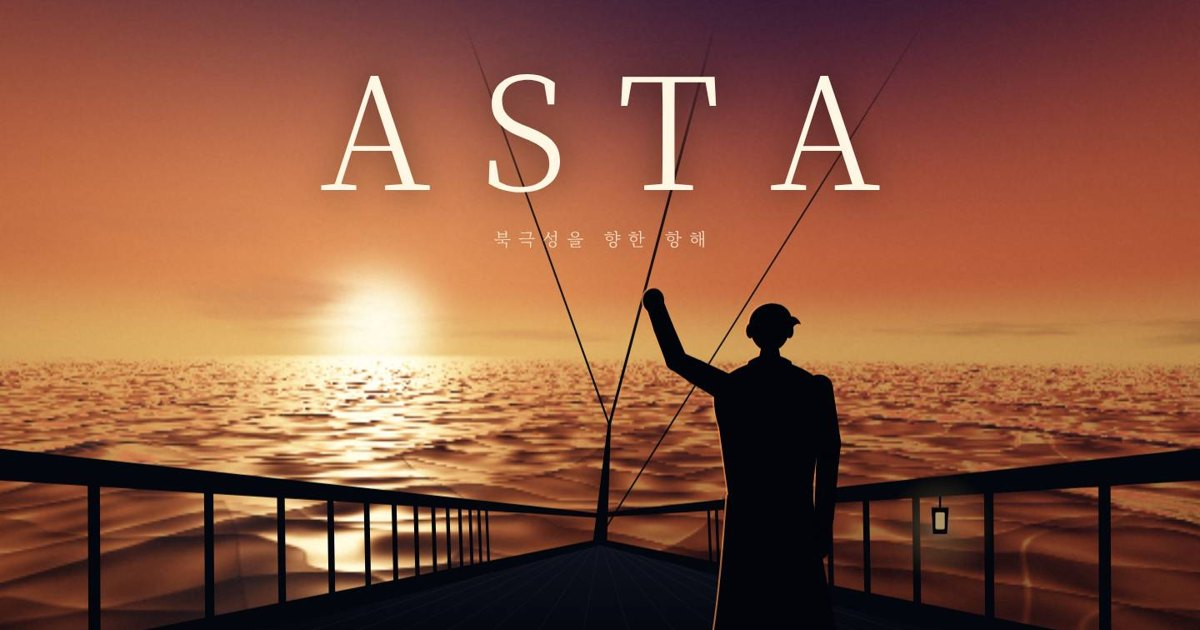
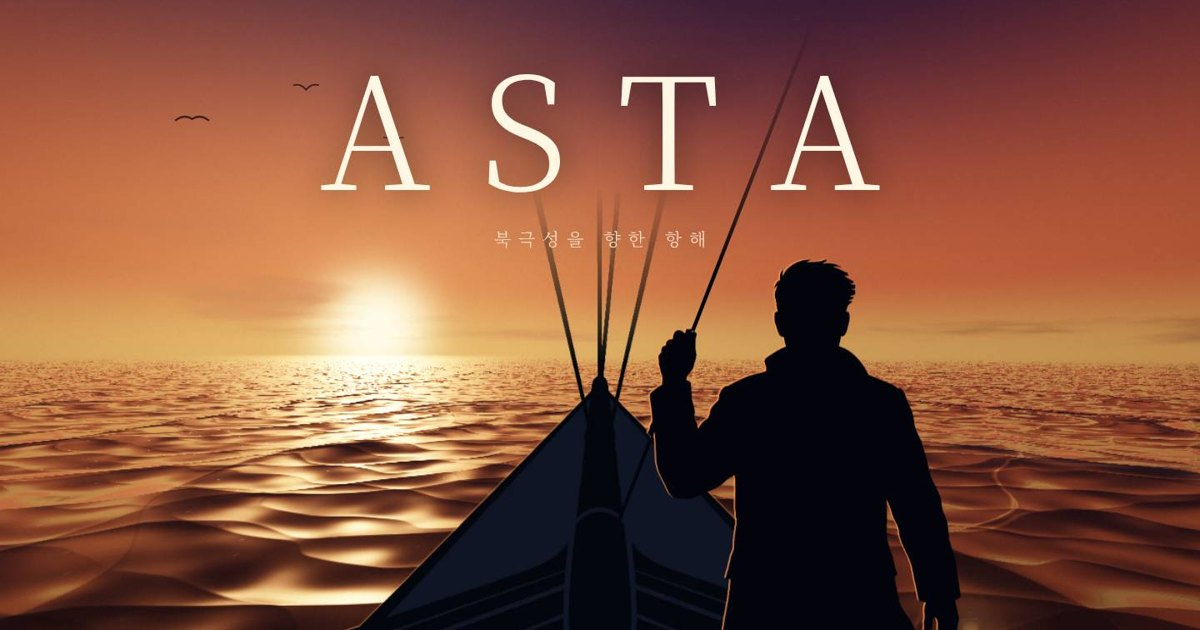
Guide tone copy, realistic sailor and ship bow silhouettes

diff --git a/index.html b/index.html
@@ -4,7 +4,7 @@
 <meta charset="utf-8">
 <meta name="viewport" content="width=device-width, initial-scale=1, viewport-fit=cover">
 <title>ASTA | 북극성을 향한 항해</title>
-<meta name="description" content="어둠이 찾아오고 거센 파도가 몰아쳐도, 고개를 들면 북극성이 있다. ASTA 앱·유튜브·블로그·인스타그램.">
+<meta name="description" content="어둠이 찾아와도, 언제나 같은 자리의 북극성처럼. 당신의 길잡이 ASTA — 앱·유튜브·블로그·인스타그램.">
 <meta name="google-site-verification" content="xA-quvQDqnkmBwEHX85nidtWgxqf7gIbeMHc6KZyVVI">
 <meta name="naver-site-verification" content="d984ef35352b2194cdda1baebc0857c64e810aae">
 <link rel="canonical" href="https://asta-story.github.io/">
@@ -13,7 +13,7 @@
 <meta property="og:type" content="website">
 <meta property="og:site_name" content="ASTA">
 <meta property="og:title" content="ASTA | 북극성을 향한 항해">
-<meta property="og:description" content="어둠이 찾아오면, 고개를 들어 북극성을. 흔들림 없이, 앞으로.">
+<meta property="og:description" content="어둠이 찾아와도, 당신의 길잡이가 되어드립니다.">
 <meta property="og:url" content="https://asta-story.github.io/">
 <meta property="og:image" content="https://asta-story.github.io/img/og.jpg">
 <meta property="og:locale" content="ko_KR">
@@ -43,12 +43,15 @@ a{color:inherit;text-decoration:none}
 #sea{position:fixed;inset:0;width:100vw;height:100lvh;display:block;z-index:0;background:
   radial-gradient(120% 70% at 30% 62%,#ff9a4a 0%,#b8452f 28%,#2a1424 58%,#03060d 100%)}
 #fx{position:fixed;inset:0;width:100vw;height:100lvh;z-index:2;pointer-events:none}
-.fg{position:fixed;left:0;right:0;bottom:-2lvh;height:104lvh;z-index:1;pointer-events:none;will-change:transform,opacity}
-.fg svg{display:block;width:100%;height:100%;overflow:visible}
-#sailor,#hem,#head,#torso,#lantern{transform-box:fill-box}
-#torso{transform-origin:50% 100%}
-#lantern{transform-origin:50% 0}
-#hem{transform-origin:50% 0}
+.fg{position:fixed;left:0;top:0;width:100vw;height:100lvh;z-index:1;pointer-events:none;will-change:transform,opacity;overflow:hidden}
+.fgstage{position:absolute;left:0;top:0;will-change:transform;-webkit-mask-image:linear-gradient(to bottom,transparent 0,transparent 14%,#000 31%);mask-image:linear-gradient(to bottom,transparent 0,transparent 14%,#000 31%)}
+#bowImg{position:absolute;inset:0;width:100%;height:100%;display:block}
+#rope{position:absolute;inset:0;width:100%;height:100%;overflow:visible}
+#sailorImg{position:absolute;left:0;top:0;display:block;transform-origin:50% 100%;will-change:transform,filter}
+.lamp{position:absolute;width:1.1%;transform-origin:50% 0;left:69.4%;top:55.2%}
+.lamp .lh{display:block;width:8%;height:.9vh;margin:0 auto;background:#03060c}
+.lamp .lb{display:block;width:100%;aspect-ratio:.62;border-radius:22% 22% 14% 14%;background:radial-gradient(60% 55% at 50% 55%,#fff1cc,#f3b75e 55%,#3a2510 100%);box-shadow:0 0 0 2px #03060c inset}
+.lamp .lg{position:absolute;left:50%;top:65%;width:900%;aspect-ratio:1;transform:translate(-50%,-50%);border-radius:50%;background:radial-gradient(closest-side,rgba(255,200,120,.55),rgba(255,170,80,.18) 45%,transparent);pointer-events:none}
 #head{transform-origin:50% 100%}
 .nogl #sea{background:radial-gradient(60% 40% at 50% 30%,rgba(243,211,154,.25),transparent 60%),linear-gradient(#03060d,#071327 70%,#03060d)}
 
@@ -77,7 +80,9 @@ a{color:inherit;text-decoration:none}
 .cue::after{content:"";position:absolute;left:0;top:-30%;width:1px;height:30%;background:#fff;animation:cue 2.6s cubic-bezier(.6,0,.3,1) infinite}
 @keyframes cue{to{top:110%}}
 .big{font-size:clamp(40px,7.4vw,108px)!important;line-height:1.1}
-.mid{font-size:clamp(30px,5vw,72px)!important;line-height:1.15}
+.sub2{margin-top:clamp(14px,1.8vh,22px);font-size:clamp(14px,1.3vw,19px)!important;letter-spacing:.32em;margin-right:-.32em;color:rgba(255,240,220,.82)!important;font-weight:300!important;opacity:0}
+.gl{color:#fff3dc!important;text-shadow:0 0 28px rgba(243,211,154,.45),0 0 80px rgba(243,211,154,.2)!important}
+.mid{font-size:clamp(28px,4.3vw,64px)!important;line-height:1.2;letter-spacing:.01em}
 .gold{color:var(--gold)!important;text-shadow:0 0 30px rgba(243,211,154,.45),0 0 90px rgba(243,211,154,.25)!important;letter-spacing:.24em!important;margin-right:-.24em}
 .l-low{top:auto;bottom:18vh}
 .l-high{top:15vh}
@@ -105,7 +110,8 @@ a{color:inherit;text-decoration:none}
 .card:hover{border-color:var(--ac3)}
 .card:hover .go{background:var(--btn);color:var(--btnt);border-color:var(--btn)}
 #const{position:fixed;inset:0;width:100vw;height:100lvh;z-index:4;pointer-events:none}
-.ch{display:inline-block;white-space:pre;will-change:transform,opacity,filter}
+.ch{display:inline-block;will-change:transform,opacity,filter}
+.wd{display:inline-block;white-space:nowrap}
 .card h3{font-family:var(--serif);font-weight:500;font-size:22px;color:var(--star);margin-top:22px;letter-spacing:.02em;line-height:1.2}
 .card p{font-size:14px;color:var(--mute);margin-top:8px;line-height:1.4}
 .go{margin-top:auto;width:100%;height:46px;display:flex;align-items:center;justify-content:center;gap:8px;border-radius:999px;border:1px solid rgba(243,211,154,.45);color:var(--gold);font-size:14px;font-weight:500;transition:background .3s,color .3s,border-color .3s}
@@ -143,32 +149,12 @@ footer{position:relative;z-index:5;background:#010207;border-top:1px solid rgba(
 
 <canvas id="sea" aria-hidden="true"></canvas>
 <div class="fg" id="fg" aria-hidden="true">
-<svg id="fgsvg" viewBox="0 0 1600 1000" preserveAspectRatio="xMidYMax slice" xmlns="http://www.w3.org/2000/svg">
-<defs><linearGradient id="dk" x1="0" y1="0" x2="0" y2="1"><stop offset="0" stop-color="#0d121d"/><stop offset=".5" stop-color="#05080f"/><stop offset="1" stop-color="#010205"/></linearGradient><radialGradient id="lg"><stop offset="0" stop-color="#fff1cc"/><stop offset=".3" stop-color="#f3c66e" stop-opacity=".75"/><stop offset="1" stop-color="#f3a64e" stop-opacity="0"/></radialGradient></defs>
-<linearGradient id="rp" gradientUnits="userSpaceOnUse" x1="0" y1="640" x2="0" y2="120"><stop offset="0" stop-color="#03060c"/><stop offset=".55" stop-color="#03060c" stop-opacity=".85"/><stop offset="1" stop-color="#03060c" stop-opacity="0"/></linearGradient>
-<g stroke="url(#rp)" fill="none" stroke-linecap="round"><path d="M812 640 L996.8 -60" stroke-width="3.4"/><path d="M812 640 L560 -60" stroke-width="2.4"/><path d="M800 784 L1330 -60" stroke-width="2"/></g>
-<path d="M-120 1010 L800 790 L1720 1010 Z" fill="url(#dk)"/>
-<path d="M-120 1010 L763.2 794 M-10 1010 L767.6 794 M100 1010 L772.0 794 M210 1010 L776.4 794 M320 1010 L780.8 794 M430 1010 L785.2 794 M540 1010 L789.6 794 M650 1010 L794.0 794 M760 1010 L798.4 794 M870 1010 L802.8 794 M980 1010 L807.2 794 M1090 1010 L811.6 794 M1200 1010 L816.0 794 M1310 1010 L820.4 794 M1420 1010 L824.8 794 M1530 1010 L829.2 794 M1640 1010 L833.6 794" stroke="rgba(160,180,210,.05)" stroke-width="1.4" fill="none"/>
-<path d="M791 790 L810 640 L814 640 L809 790 Z" fill="#03060c"/>
-<path d="M-131.0 1010.0 L-131.0 680.0 L-109.0 680.0 L-109.0 1010.0 Z M144.4 944.9 L143.2 702.5 L158.7 702.5 L159.9 944.9 Z M294.0 909.6 L292.2 714.7 L304.2 714.7 L306.0 909.6 Z M388.1 887.3 L385.8 722.4 L395.6 722.4 L397.8 887.3 Z M452.6 872.1 L450.1 727.6 L458.3 727.6 L460.8 872.1 Z M499.7 861.0 L497.0 731.5 L504.1 731.5 L506.8 861.0 Z M535.5 852.5 L532.6 734.4 L538.9 734.4 L541.8 852.5 Z M563.7 845.8 L560.7 736.7 L566.3 736.7 L569.3 845.8 Z M586.5 840.5 L583.4 738.6 L588.4 738.6 L591.5 840.5 Z M605.2 836.0 L602.1 740.1 L606.7 740.1 L609.8 836.0 Z M621.0 832.3 L617.7 741.4 L622.0 741.4 L625.2 832.3 Z M634.3 829.1 L631.1 742.5 L635.0 742.5 L638.3 829.1 Z M645.9 826.4 L642.5 743.4 L646.2 743.4 L649.5 826.4 Z M655.9 824.1 L652.5 744.2 L655.9 744.2 L659.3 824.1 Z" fill="#03060c"/>
-<path d="M-120 654 L796 753 L796 759 L-120 702 Z" fill="#03060c"/>
-<path d="M-120 970 L800 786 L800 794 L-120 1030 Z" fill="#03060c"/>
-<path d="M1709.0 1010.0 L1709.0 680.0 L1731.0 680.0 L1731.0 1010.0 Z M1440.1 944.9 L1439.0 702.5 L1454.5 702.5 L1455.6 944.9 Z M1294.0 909.6 L1292.2 714.7 L1304.2 714.7 L1306.0 909.6 Z M1202.2 887.3 L1200.0 722.4 L1209.7 722.4 L1211.9 887.3 Z M1139.2 872.1 L1136.7 727.6 L1144.9 727.6 L1147.4 872.1 Z M1093.2 861.0 L1090.5 731.5 L1097.6 731.5 L1100.3 861.0 Z M1058.2 852.5 L1055.4 734.4 L1061.6 734.4 L1064.5 852.5 Z M1030.7 845.8 L1027.7 736.7 L1033.3 736.7 L1036.3 845.8 Z M1008.5 840.5 L1005.4 738.6 L1010.4 738.6 L1013.5 840.5 Z M990.2 836.0 L987.0 740.1 L991.6 740.1 L994.8 836.0 Z M974.8 832.3 L971.6 741.4 L975.8 741.4 L979.0 832.3 Z M961.7 829.1 L958.5 742.5 L962.4 742.5 L965.7 829.1 Z M950.5 826.4 L947.2 743.4 L950.8 743.4 L954.1 826.4 Z M940.7 824.1 L937.3 744.2 L940.7 744.2 L944.1 824.1 Z" fill="#03060c"/>
-<path d="M1720 654 L796 753 L796 759 L1720 702 Z" fill="#03060c"/>
-<path d="M1720 970 L800 786 L800 794 L1720 1030 Z" fill="#03060c"/>
-<g id="lantern"><circle cx="1236" cy="772" r="70" fill="url(#lg)" id="lglow"/><path d="M1236 732 V746" stroke="#03060c" stroke-width="2.5"/><path d="M1225 746 H1247 L1245 780 H1227 Z" fill="#05070c"/><rect x="1230" y="752" width="12" height="22" rx="2" fill="#ffd590" id="lcore"/></g>
-<g id="sailor" transform="translate(1010 985) scale(1.05)" fill="#02040a">
-<path d="M-40 -100 L-44 -12 L-52 0 L-10 0 L-11 -12 L-7 -100 Z"/><path d="M8 -100 L13 -12 L11 0 L54 0 L46 -12 L42 -100 Z"/>
-<g id="hem"><path d="M-52 -268 L52 -268 C60 -205 70 -145 80 -96 Q40 -86 2 -91 Q-38 -86 -72 -97 C-63 -150 -58 -205 -52 -268 Z"/></g>
-<g id="torso"><path d="M-16 -431 C-30 -427 -50 -419 -63 -405 C-71 -396 -69 -370 -62 -350 L-50 -262 L50 -262 L62 -350 C69 -370 71 -396 63 -405 C50 -419 30 -427 16 -431 Z"/>
-<path d="M43.3 -395.0 L57.1 -328.5 L56.5 -300.9 L54.0 -241.1 L51.1 -213.6 L72.9 -210.4 L78.0 -238.9 L83.5 -299.1 L86.9 -331.5 L76.7 -401.0 Z"/><circle cx="60" cy="-398" r="17.0"/><circle cx="72" cy="-330" r="15.0"/><circle cx="70" cy="-300" r="13.5"/><circle cx="66" cy="-240" r="12.0"/><circle cx="62" cy="-212" r="11.0"/>
-<ellipse cx="61" cy="-203" rx="11" ry="14"/>
-<path d="M-48.0 -415.0 L-82.8 -431.1 L-103.2 -440.0 L-118.8 -476.3 L-129.6 -503.7 L-150.4 -496.3 L-141.2 -467.7 L-124.8 -424.0 L-97.2 -404.9 L-64.0 -385.0 Z"/><circle cx="-56" cy="-400" r="17.0"/><circle cx="-90" cy="-418" r="15.0"/><circle cx="-114" cy="-432" r="13.5"/><circle cx="-130" cy="-472" r="12.0"/><circle cx="-140" cy="-500" r="11.0"/>
-<ellipse cx="-142" cy="-505" rx="13" ry="15"/>
-<path d="M-26 -431 Q0 -447 26 -431 L32 -408 Q0 -420 -32 -408 Z"/>
-</g><g id="head"><path d="M-11 -446 L11 -446 L15 -426 L-15 -426 Z"/><ellipse cx="0" cy="-472" rx="24" ry="29"/><ellipse cx="-24" cy="-468" rx="5" ry="9"/><ellipse cx="24" cy="-468" rx="5" ry="9"/><path d="M-25 -474 C-27 -504 18 -512 26 -486 C31 -486 36 -482 38 -476 C33 -478 30 -476 27 -470 C24 -472 -22 -470 -25 -474 Z"/></g>
-</g>
-</svg>
+  <div class="fgstage" id="fgStage">
+    <img id="bowImg" src="img/scene/bow.webp" alt="" decoding="async">
+    <div class="lamp" id="lamp"><i class="lg"></i><i class="lh"></i><i class="lb"></i></div>
+  </div>
+  <svg id="rope" aria-hidden="true"><defs><linearGradient id="ropeG" gradientUnits="userSpaceOnUse" x1="0" x2="0"><stop offset="0" stop-color="#03060c" stop-opacity="0"/><stop offset="1" stop-color="#03060c"/></linearGradient></defs><line id="ropeL" stroke="url(#ropeG)" stroke-width="3" stroke-linecap="round"/></svg>
+  <img id="sailorImg" src="img/scene/sailor.webp" alt="" decoding="async">
 </div>
 <canvas id="fx" aria-hidden="true"></canvas>
 <svg id="const" aria-hidden="true"></svg>
@@ -182,11 +168,9 @@ footer{position:relative;z-index:5;background:#010207;border-top:1px solid rgba(
 <section id="story" aria-label="이야기">
   <div class="stage" id="stage">
     <div class="line hero" id="L0"><h1 aria-label="ASTA"><span>A</span><span>S</span><span>T</span><span>A</span></h1><p class="sub">북극성을 향한 항해</p></div>
-    <div class="line l-high" id="L1"><h2 class="big">어둠이 찾아오면</h2></div>
-    <div class="line l-high" id="L2"><h2 class="big">거센 파도</h2></div>
-    <div class="line l-high" id="L3"><h2 class="mid">고개를 들면</h2></div>
-    <div class="line l-pol" id="L4"><h2 class="big gold">북극성</h2></div>
-    <div class="line l-mid" id="L5"><h2 class="mid">흔들림 없이, 앞으로.</h2></div>
+    <div class="line l-high" id="L1"><h2 class="mid">어둠이 찾아와도</h2><p class="sub2" id="L1s">앞이 보이지 않는 순간에도</p></div>
+    <div class="line l-pol" id="L2"><h2 class="mid gl">당신의 길잡이가 되어드립니다</h2><p class="sub2" id="L2s">언제나 같은 자리의 북극성, 아스타</p></div>
+    <div class="line l-mid" id="L3"><h2 class="mid">흔들리지 않고 나아가는 길</h2><p class="sub2" id="L3s">오늘의 작은 걸음이 내일의 빛이 됩니다</p></div>
   </div>
   <div class="cue" id="cue" aria-hidden="true"></div>
 </section>
@@ -224,10 +208,10 @@ const CONFIG = {
 
 /* ============ 4개의 별 (모두 같은 규격) ============ */
 const STARS = [
-  {k:"app",       n:"ASTA 앱",   d:"갓생 루틴 앱", cta:"앱 받기",     ac:"rgba(255,255,255,.55)", ac2:"rgba(255,255,255,.10)", ac3:"rgba(255,255,255,.55)", btn:"#f4f2ee", bt:"#0b0b0b", rgb:"255,255,255"},
-  {k:"youtube",   n:"YouTube",   d:"영상 기록",    cta:"채널 보기",   ac:"rgba(255,30,30,.75)",   ac2:"rgba(255,30,30,.16)",   ac3:"rgba(255,60,60,.6)",    btn:"#ff2020", bt:"#fff",    rgb:"255,60,60"},
-  {k:"blog",      n:"Blog",      d:"글과 기록",    cta:"블로그 보기", ac:"rgba(40,230,140,.65)",  ac2:"rgba(40,230,140,.13)",  ac3:"rgba(60,230,150,.55)",  btn:"#2fe39a", bt:"#04140c", rgb:"60,230,150"},
-  {k:"instagram", n:"Instagram", d:"일상 기록",    cta:"인스타 보기", ac:"rgba(230,60,150,.7)",   ac2:"rgba(230,60,150,.15)",  ac3:"rgba(240,90,150,.6)",   btn:"linear-gradient(90deg,#ff9a3c,#ff3f7f,#a347e6)", bt:"#fff", rgb:"240,90,160"}
+  {k:"app",       n:"ASTA 앱",   d:"매일의 길잡이", cta:"앱 받기",     ac:"rgba(255,255,255,.55)", ac2:"rgba(255,255,255,.10)", ac3:"rgba(255,255,255,.55)", btn:"#f4f2ee", bt:"#0b0b0b", rgb:"255,255,255"},
+  {k:"youtube",   n:"YouTube",   d:"함께 걷는 기록", cta:"채널 보기",   ac:"rgba(255,30,30,.75)",   ac2:"rgba(255,30,30,.16)",   ac3:"rgba(255,60,60,.6)",    btn:"#ff2020", bt:"#fff",    rgb:"255,60,60"},
+  {k:"blog",      n:"Blog",      d:"깊은 길 위의 생각", cta:"블로그 보기", ac:"rgba(40,230,140,.65)",  ac2:"rgba(40,230,140,.13)",  ac3:"rgba(60,230,150,.55)",  btn:"#2fe39a", bt:"#04140c", rgb:"60,230,150"},
+  {k:"instagram", n:"Instagram", d:"오늘의 작은 불빛", cta:"인스타 보기", ac:"rgba(230,60,150,.7)",   ac2:"rgba(230,60,150,.15)",  ac3:"rgba(240,90,150,.6)",   btn:"linear-gradient(90deg,#ff9a3c,#ff3f7f,#a347e6)", bt:"#fff", rgb:"240,90,160"}
 ];
 const arrow = '<svg viewBox="0 0 16 16" aria-hidden="true"><path d="M2 8h11M9 4l4 4-4 4" fill="none" stroke="currentColor" stroke-width="1.6" stroke-linecap="round" stroke-linejoin="round"/></svg>';
 const grid = document.getElementById("grid");
@@ -250,7 +234,7 @@ document.getElementById("yr").textContent=new Date().getFullYear();
 
 /* ============ 장면 상태 ============ */
 const RM = matchMedia("(prefers-reduced-motion: reduce)").matches;
-const S = {sun:1, storm:.1, cloud:.3, pitch:.07, pol:0, stars:0, zoom:1, dark:0, flash:0, shake:.25, rain:0, fgA:1, look:0, clear:0, glow:0};
+const S = {sun:1, storm:.1, cloud:.3, pitch:.07, pol:0, stars:0, zoom:1, dark:0, flash:0, shake:.25, rain:0, fgA:1, clear:0, glow:0};
 
 /* ============ WebGL 바다·하늘 ============ */
 const cv=document.getElementById("sea");
@@ -430,7 +414,7 @@ function drawFX(t,dt){
     // 파도에 부딪힐 때마다 뱃머리 위로 물보라
     const burst=Math.max(0,Math.sin(t*1.5-1.2))**6*S.storm;
     const n=Math.round(burst*(mobile?6:12));
-    for(let i=0;i<n;i++)spray.push({x:bow.x+(Math.random()-.5)*60*bow.s,y:bow.y,vx:(Math.random()-.5)*260,vy:-(160+Math.random()*320)*(.6+S.storm*.6),a:1,r:1+Math.random()*2.2});
+    for(let i=0;i<n;i++)spray.push({x:bow.x+(Math.random()-.5)*120*bow.s,y:bow.y,vx:(Math.random()-.5)*260,vy:-(160+Math.random()*320)*(.6+S.storm*.6),a:1,r:1+Math.random()*2.2});
   }
   for(let i=spray.length-1;i>=0;i--){const p=spray[i];p.vy+=160*dt;p.x+=p.vx*dt;p.y+=p.vy*dt;p.a-=dt*1.2;
     if(p.a<=0){spray.splice(i,1);continue}
@@ -447,33 +431,44 @@ function drawConst(t){
     h+=`<circle cx="${pp.x+(x-pp.x)*k}" cy="${pp.y+(y-pp.y)*k}" r="${2.2*k}" fill="rgba(${c.dataset.rgb},.95)"/>`;});
   cons.innerHTML=h;
 }
-const fgEl=document.getElementById("fg"),fgSvg=document.getElementById("fgsvg"),hem=document.getElementById("hem"),head=document.getElementById("head"),
-  lglow=document.getElementById("lglow"),lcore=document.getElementById("lcore"),sailor=document.getElementById("sailor"),lantern=document.getElementById("lantern"),torso=document.getElementById("torso");
+const fgEl=document.getElementById("fg"),fgStage=document.getElementById("fgStage"),sailor=document.getElementById("sailorImg"),
+  lamp=document.getElementById("lamp"),ropeL=document.getElementById("ropeL"),ropeG=document.getElementById("ropeG");
 let bow=null,rimKey="";
 function polarisXY(){const y=(Math.tan(.5547-S.pitch)*S.zoom/1.4);return{x:W/2,y:H*(.5-y)};}
 const cons=document.getElementById("const");let consP=0;
 const ST=ScrollTrigger;
 function placeFG(t){
-  // 카메라가 배에 붙어 있음: 시선이 올라가면 갑판은 화면 아래로 내려감
+  // 카메라는 배 위: 시선이 올라가면 뱃머리·선원이 화면 아래로 내려감
   const p0=.07, shift=H*(Math.tan(S.pitch)-Math.tan(p0))*S.zoom/1.4;
-  const heave=RM?0:Math.sin(t*1.5)*H*.006*S.shake;
-  fgSvg.setAttribute("viewBox", mobile?"640 0 620 1000":"0 0 1600 1000");
+  const heave=RM?0:Math.sin(t*1.5)*H*.007*S.shake, dy=shift+heave;
   fgEl.style.opacity=S.fgA;
-  fgEl.style.transform=`translate3d(0,${shift+heave}px,0)`;
-  hem.style.transform=RM?"":`skewX(${Math.sin(t*2.3)*(1.2+3.5*S.storm*S.shake)}deg)`;
-  head.style.transform=`translateY(${S.look*5}px) scaleY(${1-S.look*.07}) rotate(${RM?0:Math.sin(t*.6)*1.2*(1-S.look)}deg)`;
-  lantern.style.transform=RM?"":`rotate(${Math.sin(t*1.5+.6)*(3+9*S.storm*S.shake)}deg)`;
-  torso.style.transform=RM?"":`scaleY(${1+Math.sin(t*1.1)*.006})`;
-  const lamp=.35+.65*(1-S.sun);lglow.style.opacity=lamp*(.8+(RM?0:Math.sin(t*7)*.05+Math.sin(t*13)*.04));lcore.style.opacity=.5+.5*lamp;
+  // 뱃머리: 꼭짓점(이미지 33% 높이)이 수평선 바로 아래에 오도록
+  const Hs=H*(mobile?1.25:1.38),Ws=Hs*2752/1536,sx=(W-Ws)/2,oy=H*.6-Hs*.335;
+  fgStage.style.width=Ws+"px";fgStage.style.height=Hs+"px";
+  fgStage.style.transform=`translate3d(${sx}px,${oy+dy}px,0) rotate(${RM?0:Math.sin(t*.8)*.25*S.shake}deg)`;
+  // 선원
+  const sh=H*(mobile?.74:.92),sw=sh*1058/2320,cxp=W*(mobile?.62:.67),top=H*(mobile?.52:.43);
+  const sl=cxp-sw/2,breath=RM?1:1+Math.sin(t*1.1)*.004,sway=RM?0:Math.sin(t*.9)*.35*(.4+S.shake);
+  sailor.style.width=sw+"px";
+  sailor.style.transform=`translate3d(${sl}px,${top+dy}px,0) rotate(${sway}deg) scaleY(${breath})`;
+  // 밧줄: 손을 지나 위·아래로 길게
+  const hx=sl+sw*(150/1058),hy=top+dy+sh*(246/2320),k=-.388;
+  ropeL.setAttribute("x1",hx+k*(-H*1.5));ropeL.setAttribute("y1",hy-H*1.5);
+  ropeL.setAttribute("x2",hx+k*(H*1.2));ropeL.setAttribute("y2",hy+H*1.2);
+  ropeL.setAttribute("stroke-width",Math.max(2,sw*.012));
+  ropeG.setAttribute("y1",hy-H*.42);ropeG.setAttribute("y2",hy-H*.08);
+  // 랜턴
+  const lampOn=.35+.65*(1-S.sun);
+  lamp.style.opacity=lampOn*(RM?1:.9+Math.sin(t*7)*.05+Math.sin(t*13)*.04);
+  lamp.style.transform=RM?"":`rotate(${Math.sin(t*1.5+.6)*(3+10*S.storm*S.shake)}deg)`;
   // 테두리 빛: 노을엔 왼쪽 주황, 북극성 아래선 위쪽 금빛
-  const k=(S.sun>.5?"s":"n")+Math.round(S.pol*4);
-  if(k!==rimKey){rimKey=k;
-    const amber=`drop-shadow(-1.6px -.6px 0 rgba(255,150,80,${(.65*S.sun).toFixed(2)}))`,gold=`drop-shadow(0 -1.6px 0 rgba(255,226,175,${(.25+.45*S.pol).toFixed(2)}))`;
-    sailor.style.filter=`${S.sun>.5?amber:gold} drop-shadow(0 0 12px rgba(243,211,154,${(.12*S.pol).toFixed(2)}))`;}
+  const kk=(S.sun>.5?"s":"n")+Math.round(S.pol*4);
+  if(kk!==rimKey){rimKey=kk;
+    const amber=`drop-shadow(-2px -1px 0 rgba(255,150,80,${(.7*S.sun).toFixed(2)}))`,gold=`drop-shadow(0 -2px 0 rgba(255,226,175,${(.25+.5*S.pol).toFixed(2)}))`;
+    sailor.style.filter=`${S.sun>.5?amber:gold} drop-shadow(0 0 16px rgba(243,211,154,${(.14*S.pol).toFixed(2)}))`;
+    fgStage.style.filter=S.sun>.5?`drop-shadow(0 -2px 0 rgba(255,150,80,${(.45*S.sun).toFixed(2)}))`:`drop-shadow(0 -1.5px 0 rgba(255,226,175,${(.12+.3*S.pol).toFixed(2)}))`;}
   // 뱃머리 끝 화면 좌표 (물보라 시작점)
-  const r=fgSvg.getBoundingClientRect(),vb=mobile?[640,620]:[0,1600],sc=Math.max(r.width/vb[1],r.height/1000);
-  const ox=r.left+(r.width-vb[1]*sc)/2-vb[0]*sc, oy=r.top+r.height-1000*sc;
-  bow={x:ox+800*sc,y:oy+780*sc,s:sc};
+  bow={x:sx+Ws*.5,y:oy+dy+Hs*.335,s:Hs/1536};
 }
 let last=performance.now(),T0=last,frames=0,acc=0,tune=0,needSize=false;
 function loop(now){
@@ -502,23 +497,21 @@ if(!RM){lenis=new Lenis({lerp:.085,smoothWheel:true});lenis.on("scroll",ScrollTr
 
 const $=id=>document.getElementById(id);
 const tl=gsap.timeline({defaults:{ease:"none"},scrollTrigger:{trigger:"#story",start:"top top",end:"bottom bottom",scrub:RM?true:1.2}});
-document.querySelectorAll(".line h2").forEach(h=>{const t=h.textContent;h.setAttribute("aria-label",t);h.innerHTML=[...t].map(c=>`<span class="ch" aria-hidden="true">${c}</span>`).join("");});
+document.querySelectorAll(".line h2").forEach(h=>{const t=h.textContent;h.setAttribute("aria-label",t);h.innerHTML=t.split(" ").map(w=>`<span class="wd" aria-hidden="true">${[...w].map(c=>`<span class="ch">${c}</span>`).join("")}</span>`).join(" ");});
 const tin=(el,at,d=.35)=>{tl.set(el,{opacity:1},at);tl.fromTo(el+" .ch",{opacity:0,y:42,filter:"blur(14px)",scale:1.15},{opacity:1,y:0,filter:"blur(0px)",scale:1,duration:d,ease:"power3.out",stagger:d*.09},at);};
 const tout=(el,at,d=.3)=>tl.to(el+" .ch",{opacity:0,y:-26,filter:"blur(12px)",duration:d,ease:"power2.in",stagger:d*.05},at);
 // 1막 — 노을에서 어둠·거센 파도로
 tl.to("#L0",{opacity:0,y:-40,filter:"blur(14px)",duration:.5},.15).to("#cue",{opacity:0,duration:.3},.1)
   .to(S,{sun:0,cloud:.86,dark:.5,glow:0,duration:1.9},.3)
   .to(S,{storm:1,dark:.86,pitch:.015,rain:1,shake:1,duration:1.2},2.2);
-tin("#L1",.85);tout("#L1",1.85);
-tin("#L2",2.45);tout("#L2",3.35);
+tin("#L1",1.0);tl.fromTo("#L1s",{opacity:0,y:14,filter:"blur(8px)"},{opacity:1,y:0,filter:"blur(0px)",duration:.4},2.2);tout("#L1",3.2);tl.to("#L1s",{opacity:0,filter:"blur(8px)",duration:.3},3.2);
 tl.to(S,{flash:1,duration:.06},2.98).to(S,{flash:0,duration:.3},3.04);
 // 2막 — 고개를 들면 보이는 북극성
-tl.to(S,{pitch:.55,cloud:.32,clear:1,stars:1,pol:1,dark:.32,rain:0,shake:.35,look:1,duration:1.6,ease:"power1.inOut"},3.6);
-tin("#L3",3.75);tout("#L3",4.45);
-tin("#L4",4.75,.45);tout("#L4",5.55);
+tl.to(S,{pitch:.55,cloud:.32,clear:1,stars:1,pol:1,dark:.32,rain:0,shake:.35,duration:1.6,ease:"power1.inOut"},3.6);
+tin("#L2",4.55,.45);tl.fromTo("#L2s",{opacity:0,y:14,filter:"blur(8px)"},{opacity:1,y:0,filter:"blur(0px)",duration:.4},5.0);tout("#L2",5.65);tl.to("#L2s",{opacity:0,filter:"blur(8px)",duration:.3},5.65);
 // 3막 — 확신에 찬 항해
-tl.to(S,{pitch:.13,storm:.9,dark:.2,shake:.12,look:0,duration:1.1,ease:"power1.inOut"},5.8);
-tin("#L5",6.3);tout("#L5",7.4);
+tl.to(S,{pitch:.13,storm:.9,dark:.2,shake:.12,duration:1.1,ease:"power1.inOut"},5.8);
+tin("#L3",6.2);tl.fromTo("#L3s",{opacity:0,y:14,filter:"blur(8px)"},{opacity:1,y:0,filter:"blur(0px)",duration:.4},6.65);tout("#L3",7.45);tl.to("#L3s",{opacity:0,filter:"blur(8px)",duration:.3},7.45);
 // 4막 — 북극성 클로즈업
 tl.to(S,{pitch:.465,zoom:3.3,dark:.12,cloud:.18,duration:1.4,ease:"power2.inOut"},7.8).to(S,{fgA:0,duration:.6},8.1)
   .to({},{duration:1},9);
